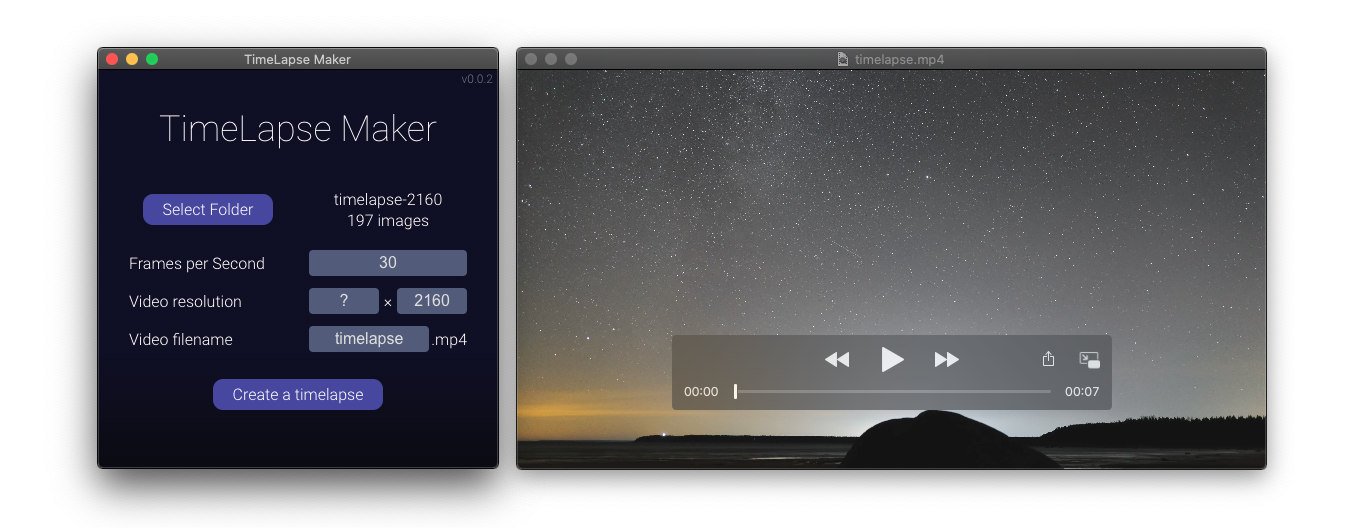
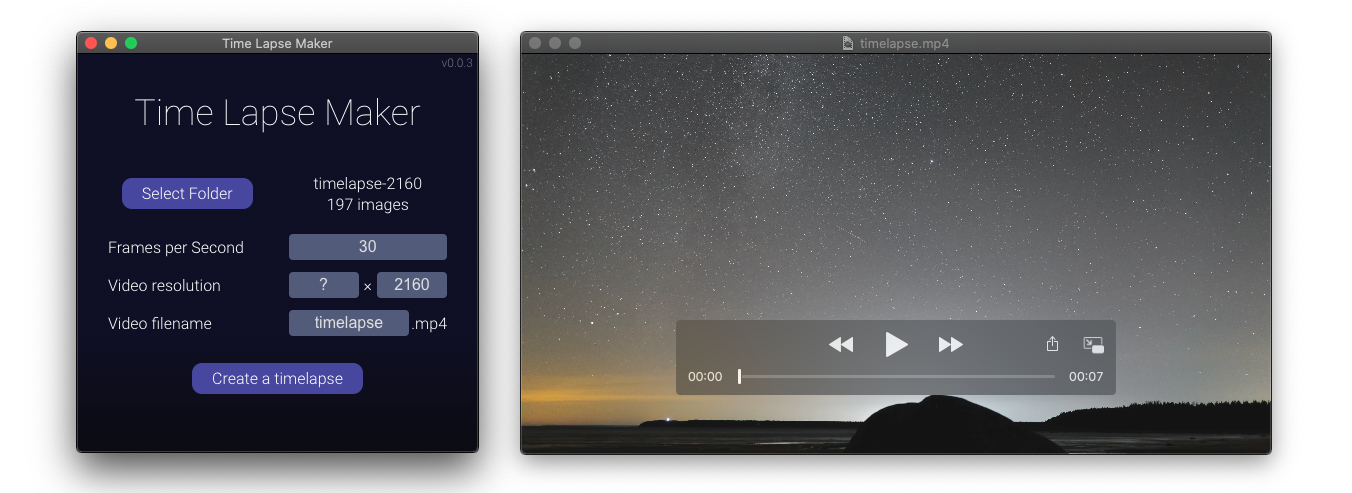
Update name

Changed region(s): [[0.0311, 0.0609, 0.963, 1.0]]

diff --git a/index.html b/index.html
@@ -2,7 +2,6 @@
 <html>
 <link>
   <meta charset="UTF-8">
-  <title>TimeLapse Maker</title>
   <meta http-equiv="Content-Security-Policy" content="script-src 'self' 'unsafe-inline';" />
   <link href="public/main.css" rel="stylesheet">
 </head>
@@ -12,7 +11,7 @@
   <div class="table">
     <div class="row">
       <div class="cell">
-        <div class="header">TimeLapse Maker</div>
+        <div class="header">Time Lapse Maker</div>
       </div>
     </div>
 

diff --git a/index.js b/index.js
@@ -5,7 +5,7 @@ const IS_DEV = require('electron-is-dev');
 
 async function createWindow () {
   const windowOptions = {
-    width: 400,
+    width: IS_DEV ? 956 : 400,
     height: 420,
     webPreferences: {
       nodeIntegration: true

diff --git a/README.md b/README.md
@@ -2,13 +2,13 @@
 [win]: https://github.com/Aurora-Hunters/timelapse-maker/releases/download/v0.0.2/TimeLapse-Maker-Setup-0.0.2.exe
 [lin]: https://github.com/Aurora-Hunters/timelapse-maker/releases/download/v0.0.2/TimeLapse-Maker-0.0.2.AppImage
 
-# TimeLapse Maker
+# Time Lapse Maker
 
 Simple application for assembling time lapses. Choose a directory with photos, set FPS and resolution and get a video.  
 
 Available on [macOS][mac], [Windows][win] and [Linux][lin].
 
-![](./docs/assets/demo.png)
+![](./docs/assets/demo.gif)
 
 Releases and changes [page](https://github.com/Aurora-Hunters/timelapse-maker/releases/latest).
 
